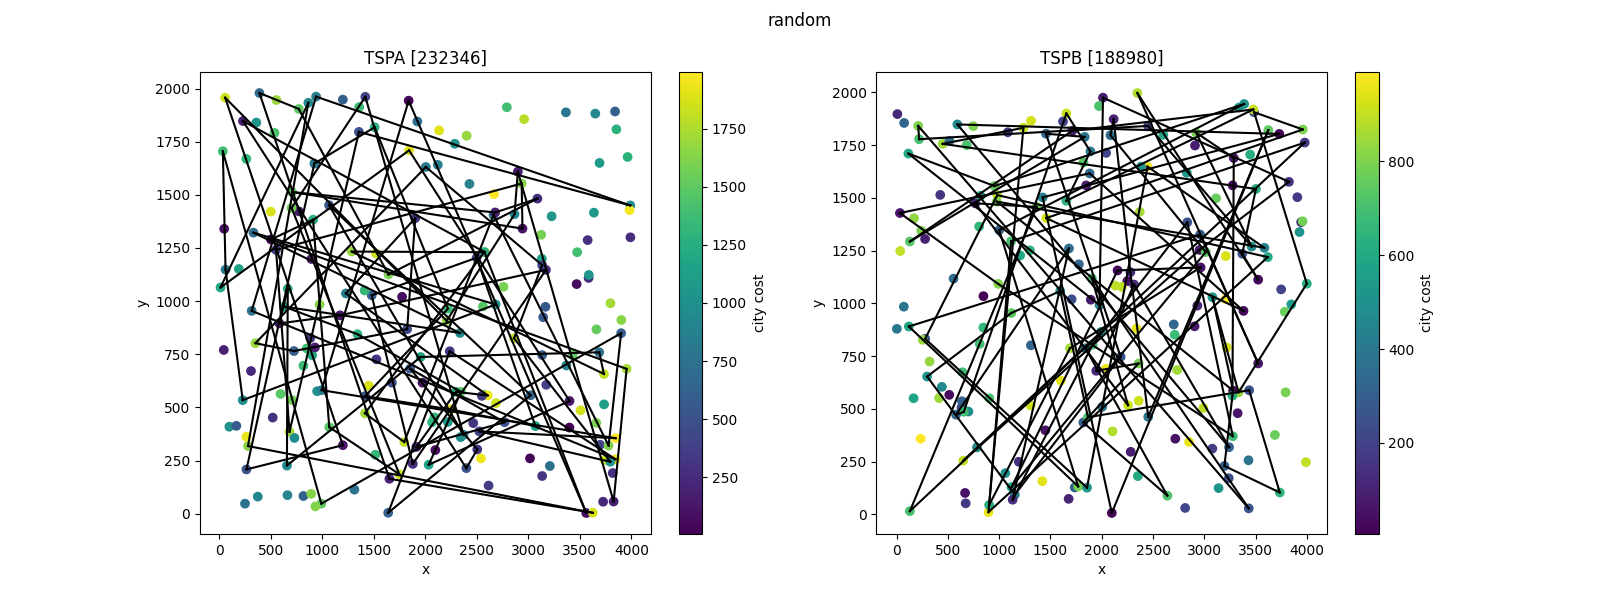
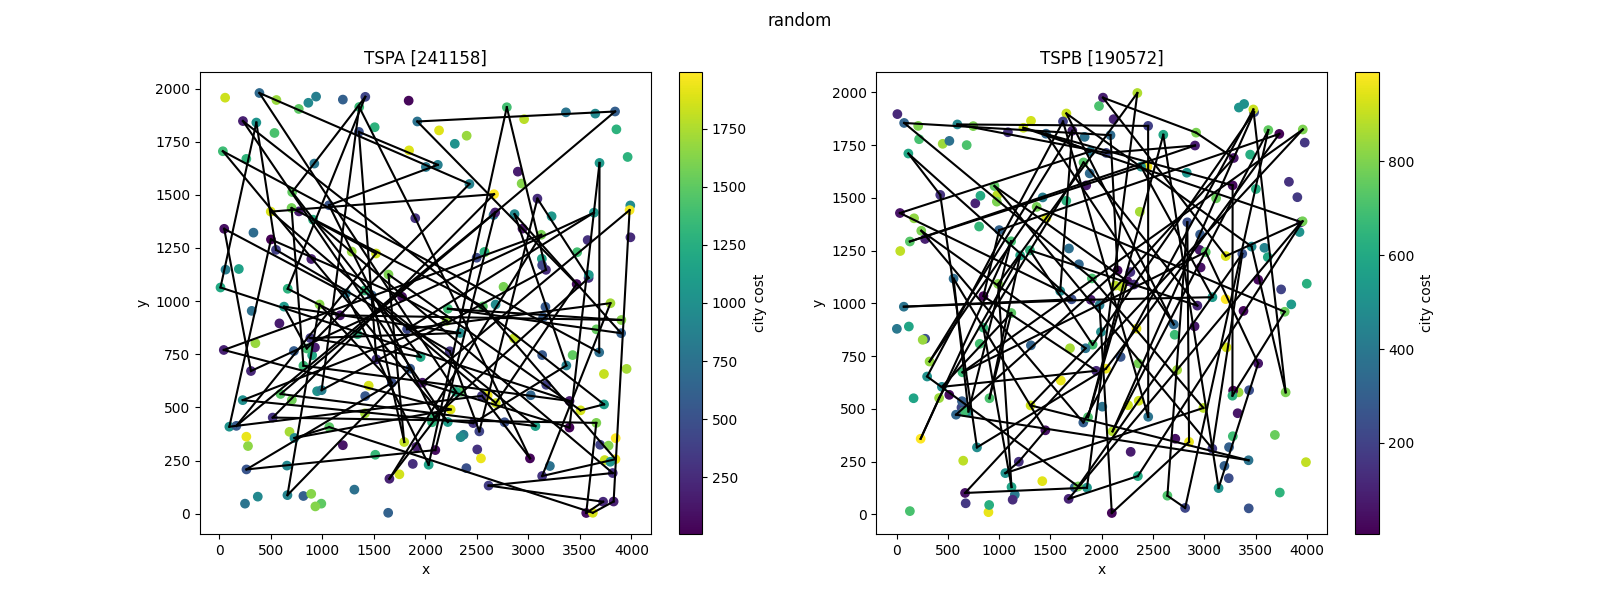
najs

diff --git a/visualization.py b/visualization.py
@@ -137,6 +137,12 @@ tspa_greedy_cycle_regret = parse_solution(
 tspb_greedy_cycle_regret = parse_solution(
     read_file("results/tspb_greedy_cycle_regret.txt")
 )
+tspa_greedy_cycle_weighted_regret = parse_solution(
+    read_file("results/tspa_greedy_cycle_weighted_regret.txt")
+)
+tspb_greedy_cycle_weighted_regret = parse_solution(
+    read_file("results/tspb_greedy_cycle_weighted_regret.txt")
+)
 
 
 plot_cities("cities", tspa, tspb)
@@ -186,3 +192,21 @@ plot_solution(
     tspb_greedy_cycle_regret,
 )
 plt.savefig("plots/greedy_cycle_regret.png")
+
+plot_solution(
+    "greedy cycle weighted regret",
+    tspa,
+    tspa_greedy_cycle_weighted_regret,
+    tspb,
+    tspb_greedy_cycle_weighted_regret,
+)
+plt.savefig("plots/greedy_cycle_weighted_regret.png")
+
+plot_solution(
+    "greedy cycle weighted regret",
+    tspa,
+    tspa_greedy_cycle_weighted_regret,
+    tspb,
+    tspb_greedy_cycle_weighted_regret,
+)
+plt.savefig("plots/greedy_cycle_weighted_regret.png")
